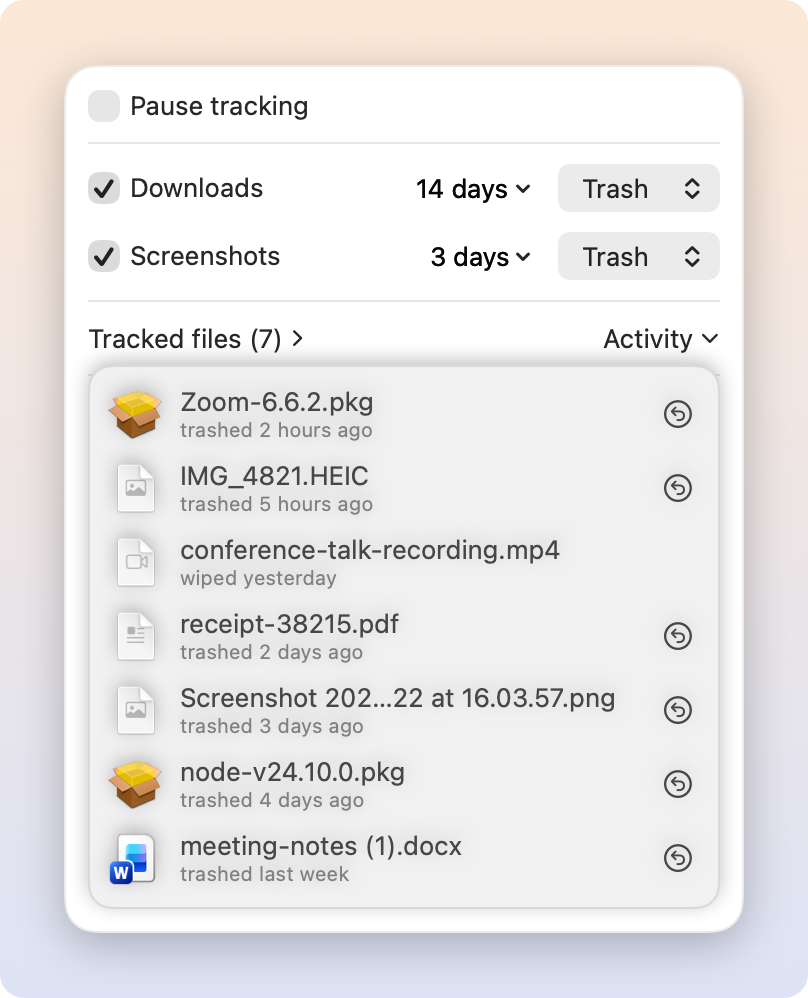
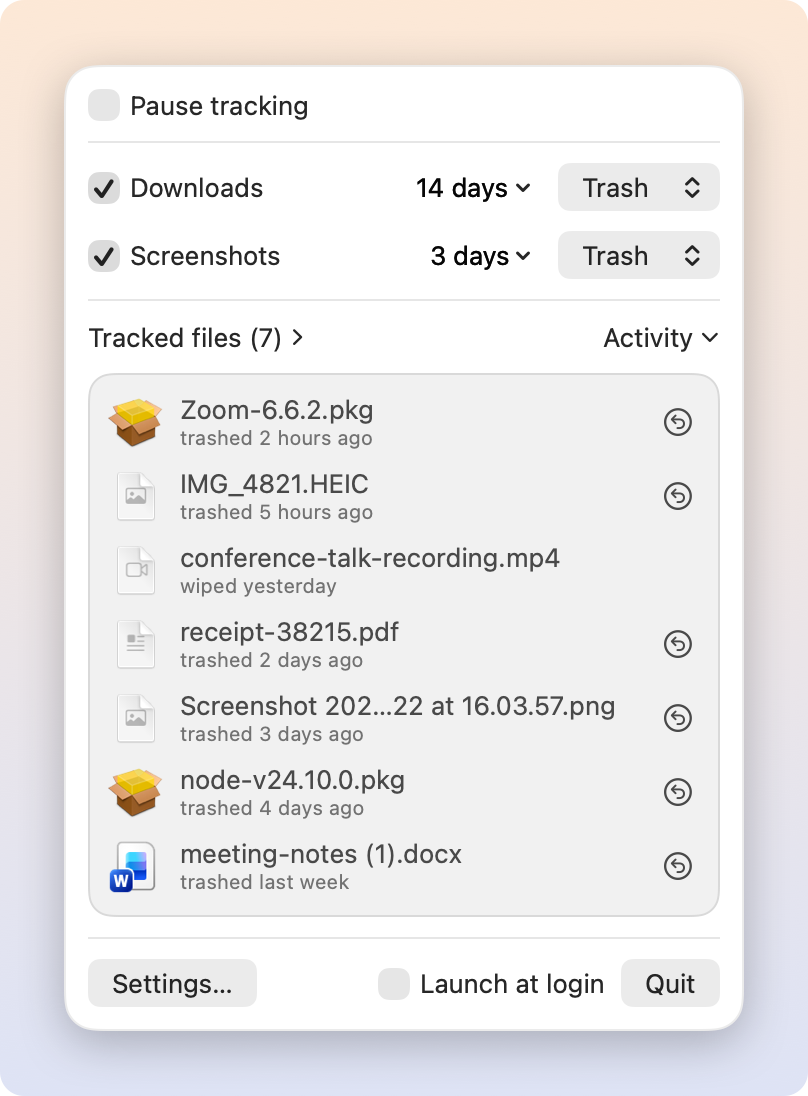
feat(menu): dropdowns open in place so Settings stays visible and Tracked/Activity switch directly

diff --git a/Sources/Burndown/Menu/MenuContent.swift b/Sources/Burndown/Menu/MenuContent.swift
@@ -5,8 +5,6 @@ struct MenuContent: View {
     @Bindable var model: AppModel
     @Environment(\.openSettings) private var openSettings
     @State private var open: Page?
-    /// Bottom edge of the Tracked files / Activity row in the panel, where the dropdown hangs from.
-    @State private var rowBottom: CGFloat = 0
 
     enum Page { case tracked, activity }
 
@@ -34,7 +32,7 @@ struct MenuContent: View {
                 Spacer()
                 pageLink("Activity", .activity)
             }
-            .onGeometryChange(for: CGFloat.self) { $0.frame(in: .named("panel")).maxY } action: { rowBottom = $0 }
+            if let page = open { dropdown(page) }
 
             Divider()
             HStack {
@@ -49,10 +47,7 @@ struct MenuContent: View {
         }
         .padding(12)
         .frame(width: 340)
-        .coordinateSpace(name: "panel")
-        // Make room for the dropdown if it is taller than the menu below its row.
-        .frame(minHeight: open.map { rowBottom + 6 + dropdownHeight($0) + 12 }, alignment: .top)
-        .overlay(alignment: .topLeading) { dropdownLayer }
+        .animation(.easeOut(duration: 0.15), value: open)
         .onDisappear { open = nil }
     }
 
@@ -69,24 +64,17 @@ struct MenuContent: View {
         min(max(CGFloat(rowCount(page)), 1) * 36, 320) + 20
     }
 
-    @ViewBuilder private var dropdownLayer: some View {
-        if let page = open {
-            ZStack(alignment: .topLeading) {
-                // Click anywhere else to close.
-                Color.black.opacity(0.001).onTapGesture { open = nil }
-                ScrollView {
-                    LazyVStack(alignment: .leading, spacing: 8) {
-                        if page == .tracked { trackedRows } else { activityRows }
-                    }
-                    .padding(10)
-                }
-                .frame(width: 316, height: dropdownHeight(page))
-                .background(.regularMaterial, in: RoundedRectangle(cornerRadius: 12))
-                .overlay(RoundedRectangle(cornerRadius: 12).strokeBorder(.separator))
-                .shadow(color: .black.opacity(0.25), radius: 10, y: 4)
-                .offset(x: 12, y: rowBottom + 6)
+    /// Opens in place under its row, pushing the Settings line down so it stays visible.
+    private func dropdown(_ page: Page) -> some View {
+        ScrollView {
+            LazyVStack(alignment: .leading, spacing: 8) {
+                if page == .tracked { trackedRows } else { activityRows }
             }
+            .padding(10)
         }
+        .frame(height: dropdownHeight(page))
+        .background(.regularMaterial, in: RoundedRectangle(cornerRadius: 12))
+        .overlay(RoundedRectangle(cornerRadius: 12).strokeBorder(.separator))
     }
 
     private func pageLink(_ title: String, _ target: Page) -> some View {
